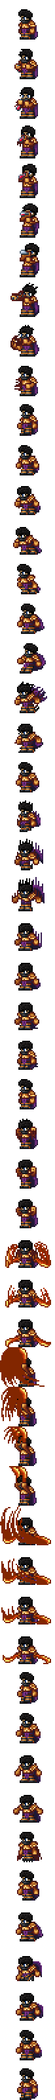
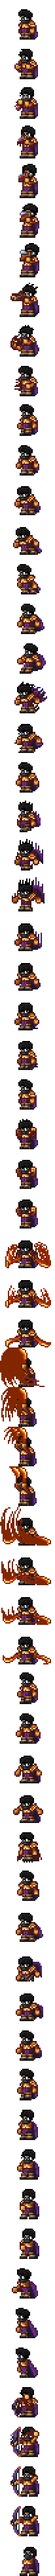
Update to Elius sprites

diff --git a/NPCs/Bosses/LordElius.cs b/NPCs/Bosses/LordElius.cs
@@ -29,7 +29,7 @@ namespace ArcaneOdyssey.NPCs.Bosses
 		private readonly Vector2[] podiumPos = [new(-665f, 16f), new(-320f, 0f), new(0f, 0f), new(366f, 0f), new(686f, 16f)];
 		public override void SetStaticDefaults()
 		{
-			Main.npcFrameCount[NPC.type] = 53;
+			Main.npcFrameCount[NPC.type] = 95;
 			NPCID.Sets.NPCBestiaryDrawModifiers drawModifiers = new() { Direction = 1 };
 			NPCID.Sets.NPCBestiaryDrawOffset.Add(Type, drawModifiers);
 			NPCID.Sets.NoTownNPCHappiness[Type] = true;
